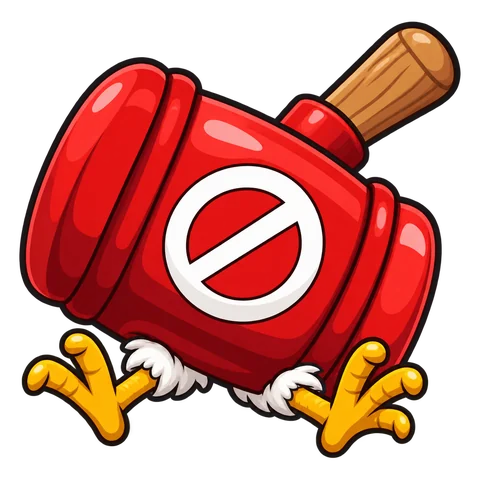
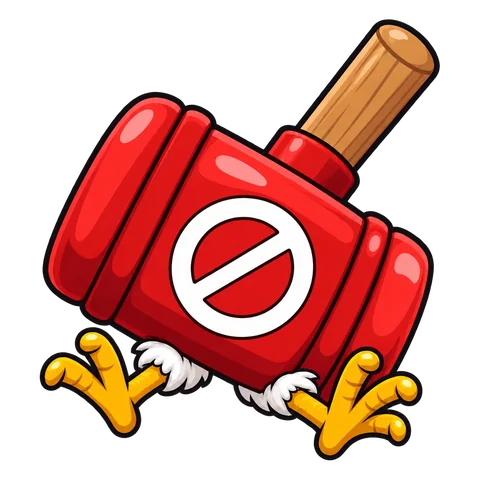
CS memes: VAC's ban hammer gets a straight handle set square into the middle of the head, and 360 Noscope's AWP loses its scope, which flies off on its own over the bare rail

diff --git a/docs/ART_PROMPTS.md b/docs/ART_PROMPTS.md
@@ -465,7 +465,8 @@ Lots of breathing room around the subject.
 - **zeus:** `Scene: the chicken mascot, full body, holding a small yellow Zeus taser in its own wing and accidentally zapping itself: its whole body flashing with electric-blue lightning, a cartoon x-ray showing its skeleton through the feathers, feathers standing on end, googly eyes spinning, beak wide open. The taser is fully visible in its wing.`
 - **eco-round:** `Scene: a big brown leather wallet flung wide open and completely empty, a cartoon moth fluttering out of it, a single small pistol lying in the open wallet as the only thing left, one lonely coin rolling away; a broke, funny 'eco round' mood. Palette: worn brown leather, toxic chat-green, alarm red accents, flashbang white, black ink.`
 - **rush-b:** `Scene: the chicken mascot sprinting flat out towards the viewer in a reckless all-in rush, seen three-quarter from the front, gripping a P90 submachine gun with both wings, legs spinning into a cartoon blur of motion lines, crest and feathers blown back, beak wide open in a joyful yell, a small puff of sand kicked up behind its feet.`
-- **noscope:** `Scene: an AWP sniper rifle caught mid-spin in a full 360-degree turn, drawn complete and kept compact, surrounded by one big round swirl of motion lines that circles it; its scope has popped off and flies away with a little comic pop, a small red X mark on the empty scope rail; a bright comic muzzle flash kept well inside the frame.` (прицел модель всё равно оставила на месте). В чистом стиле: `two bold thick curved motion swooshes in red and orange wrapping fully around it`, с одним росчерком вращение не читалось.
+- **noscope:** `Scene: an AWP sniper rifle caught mid-spin in a full 360-degree turn, drawn complete and kept compact, surrounded by one big round swirl of motion lines that circles it; its scope has popped off and flies away with a little comic pop, a small red X mark on the empty scope rail; a bright comic muzzle flash kept well inside the frame.` (прицел модель всё равно оставила на месте). В чистом стиле: `two bold thick curved motion swooshes in red and orange wrapping fully around it`, с одним росчерком вращение не читалось. Прицел оторвать удалось только правкой готовой картинки: `the rifle has NO scope on it ... ripped off and flying away on its own, clearly separated by a visible gap ... only the empty bare scope rail is left`.
+- **vac**, фикс кривого молотка: `a perfectly STRAIGHT short wooden handle that goes cleanly into the exact middle of the head at a right angle, no bend, no twist`.
 
 Фигурные карточки ряда (`public/img/cases/wide/negev.webp` 968×440, `tall/zeus.webp` 468×1152 — ровно пропорции области картинки в карточке на десктопе, 2,2:1 и 0,41:1, иначе по краям пусто): первая широкая/высокая версия — образец, в промпте «re-fit it so the whole sticker silhouette has the SAME proportions as this frame (about 2.2 wide to 1 high)» / «(about 1 wide to 2.4 high)», размер 1536×704 / 640×1536, по 2 варианта и берётся тот, у которого пропорции ближе (слова «very wide / very tall» дают перебор); ряд из 8 кейсов с одной широкой и одной высокой закрывает две строки по 5. Фигурные версии рисуются правкой уже одобренной квадратной картинки; в webp рисунок обрезается по контуру и вписывается в рамку с полем 3%.
 
